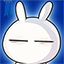
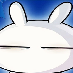
优化生成缩略图

diff --git a/tpl/avatar.html b/tpl/avatar.html
@@ -1,5 +1,5 @@
 $def with (title, user, crumb, message='')
-$var title: title
+$var title: $title
 <div id="Main">
 <div class="sep20">
 </div>

diff --git a/models/user_model.py b/models/user_model.py
@@ -50,11 +50,13 @@ class user_model(model):
         im = Image.open(path+'tmp/'+filename)
         size = im.size
         if size[0] > size[1]:
+            crop_size = size[1]
             left = (size[0]-size[1])/2
             right = size[1] + left
             upper = 0
             lower = size[1]
         else:
+            crop_size = size[0]
             left = 0
             right = size[0]
             upper = (size[1]-size[0])/2
@@ -64,11 +66,23 @@ class user_model(model):
         region.save(path+'tmp/'+filename)
         im = Image.open(path+'tmp/'+filename)
         im.thumbnail((73, 73))
-        im.save(path+'big/'+filename)
+        if crop_size > 73:
+            quality = int(73/crop_size * 100)
+        else:
+            quality = 100
+        im.save(path+'big/'+filename, quality = quality)
         im.thumbnail((48, 48))
-        im.save(path+'normal/'+filename)
+        if crop_size > 48:
+            quality = int(48/crop_size * 100)
+        else:
+            quality = 100
+        im.save(path+'normal/'+filename, quality = quality)
         im.thumbnail((24, 24))
-        im.save(path+'tiny/'+filename)
+        if crop_size > 24:
+            quality = int(24/crop_size * 100)
+        else:
+            quality = 100
+        im.save(path+'tiny/'+filename, quality = quality)
         del im, region
         os.remove(path+'tmp/'+filename)
         self.update({'id':user_id}, {'avatar':filename})

diff --git a/controllers/user.py b/controllers/user.py
@@ -155,7 +155,7 @@ class avatar:
         self.user = user_model().get_one({'id':web.config._session.user_id})
     
     def GET(self):
-        self.crumb.append('设置', '/settings/')
+        self.crumb.append('设置', '/settings')
         self.crumb.append('上传头像')
         return render.avatar('上传头像', self.user, self.crumb.output())
     def POST(self):
